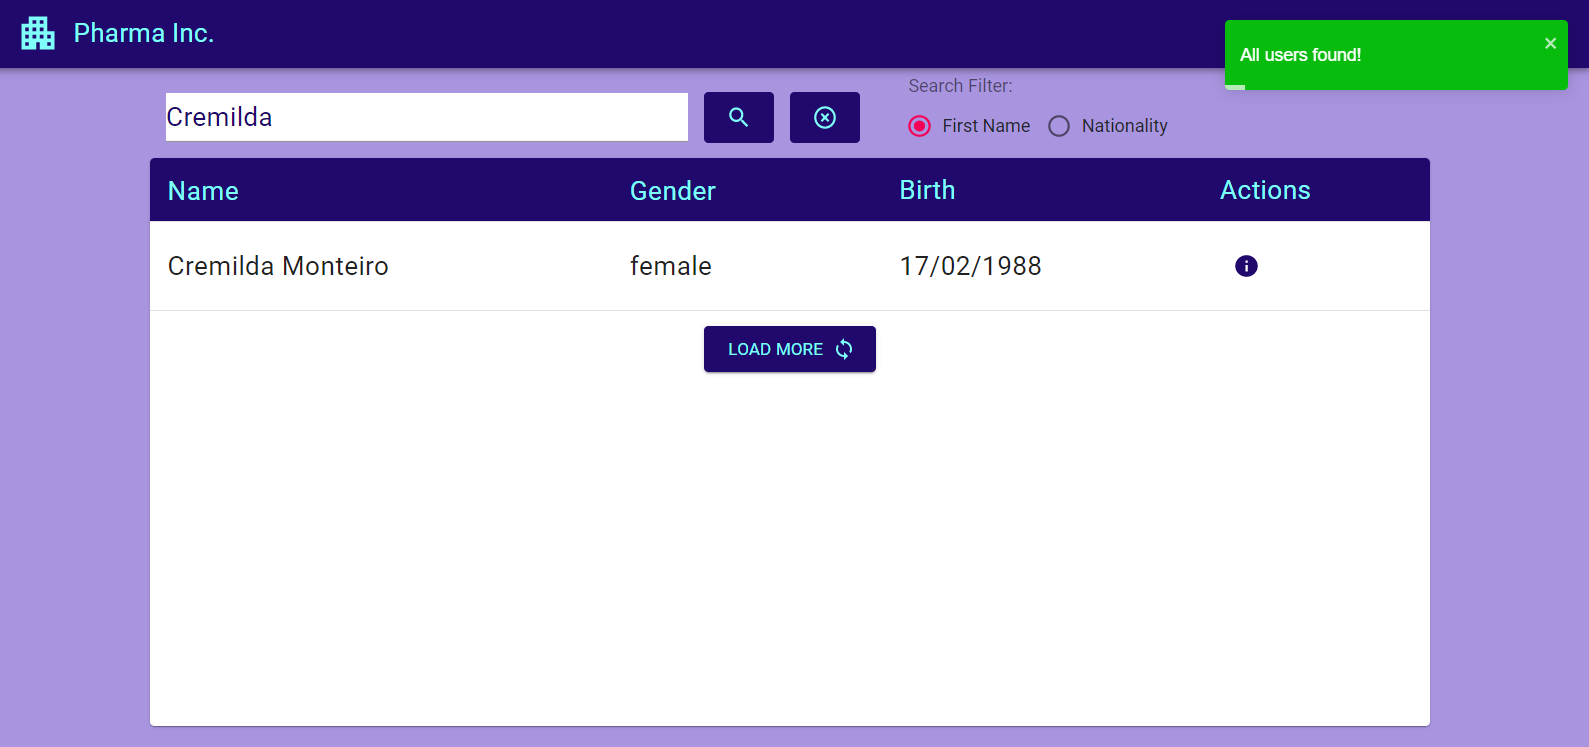
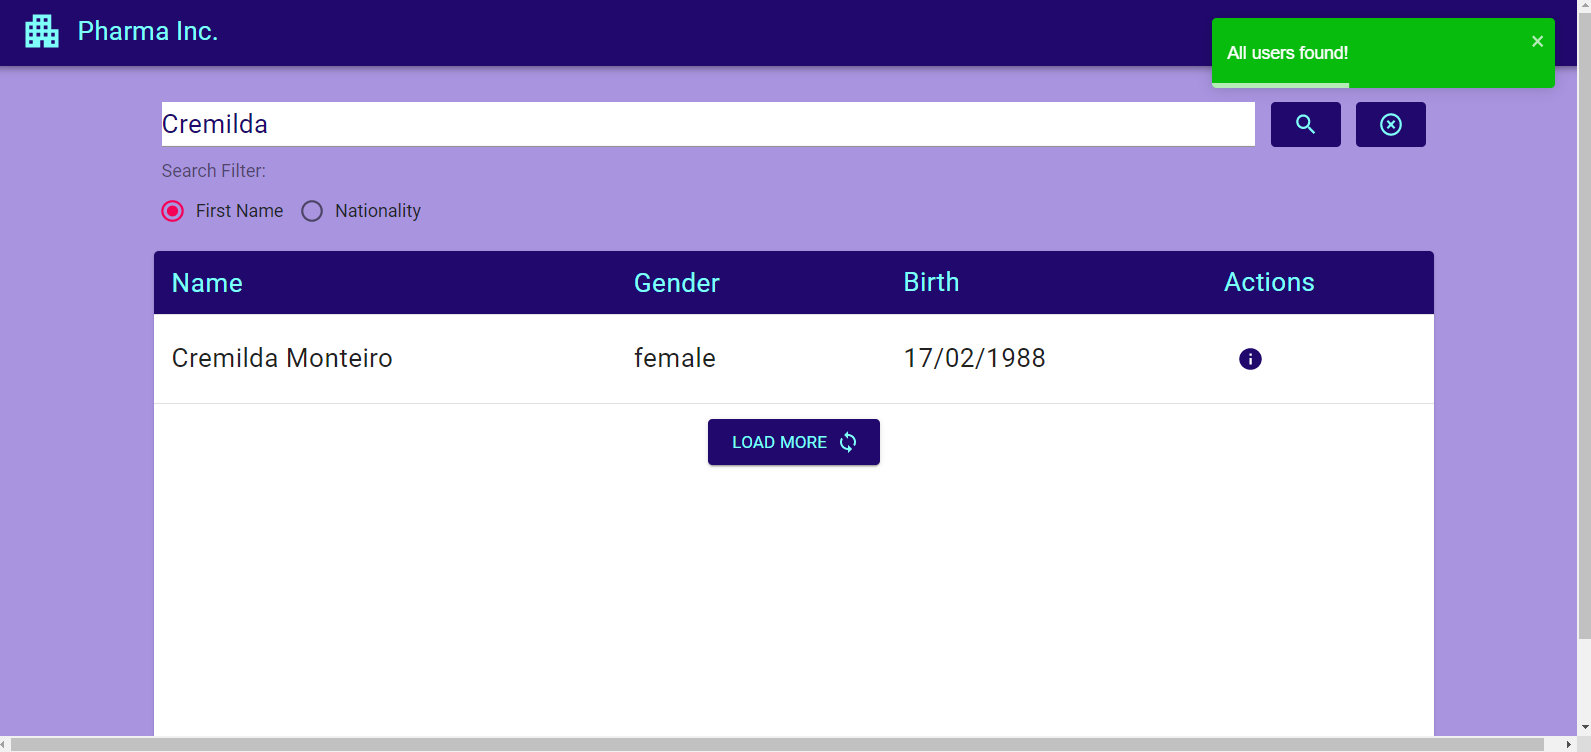
hotfix: buttons, margins, readme

diff --git a/frontend/src/dashboard/dash.jsx b/frontend/src/dashboard/dash.jsx
@@ -294,10 +294,10 @@ export default () => {
     return (
         <div>
             <ToastContainer autoClose={2000} />
-            <div style={{display: 'flex', marginTop: '2vh'}}>
-                <Input  placeholder=" Search here..." fullWidth={true}  style={{margin:"1vh", fontSize: "1.5rem",color: '#21086d', background:'white', height:'10vh'}} value={text} onChange={e => setText(e.target.value)}/>
-                <Button variant="contained" disableElevation style={{margin: '1vh ', display:'flex', color: '#7ffff9', background:'#21086d', height:'10vh'}} onClick={() => handleSearch(text, type)}> <SearchIcon/> </Button>
-                <Button variant={'contained'} disableElevation style={{margin: '1vh ', display:'flex', color: '#7ffff9', background:'#21086d', height:'10vh'}}  onClick={initialState}> <HighlightOffIcon/> </Button>
+            <div style={{display: 'flex', marginTop: '1vh'}}>
+                <Input  placeholder=" Search here..." fullWidth={true}  style={{margin:"1vh", fontSize: "1.5rem",color: '#21086d', background:'white'}} value={text} onChange={e => setText(e.target.value)}/>
+                <Button variant="contained" disableElevation style={{margin: '1vh ', display:'flex', color: '#7ffff9', background:'#21086d'}} onClick={() => handleSearch(text, type)}> <SearchIcon/> </Button>
+                <Button variant={'contained'} disableElevation style={{margin: '1vh ', display:'flex', color: '#7ffff9', background:'#21086d'}}  onClick={initialState}> <HighlightOffIcon/> </Button>
             </div>
             <FormControl row component="fieldset" fullWidth={true} style={{margin: '1vh', height:'100%'}}>
                 <FormLabel>Search Filter:</FormLabel>

diff --git a/frontend/src/common/templates/header.jsx b/frontend/src/common/templates/header.jsx
@@ -4,7 +4,7 @@ import {AppBar, IconButton, Toolbar, Typography} from "@material-ui/core";
 export default props => {
     return (
         <div>
-            <AppBar position="static"  style={{marginBottom: '2vh', background:'#21086d'}}>
+            <AppBar position="static"  style={{marginBottom: '1vh', background:'#21086d'}}>
                 <Toolbar>
                     <IconButton edge="start" aria-label="menu" href={'/'} style={{color:'#7ffff9'}}>
                         <ApartmentIcon style={{fontSize: 40}}/>
